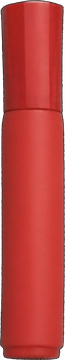
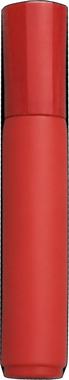
Add files via upload
refactoring stack

diff --git a/stack.html b/stack.html
@@ -6,160 +6,137 @@
 <title>Qu33ph Stack</title>
 <style>
   *{ box-sizing:border-box; -webkit-tap-highlight-color:transparent; }
-  html,body{ margin:0; height:100%; background:#0b0d14; overflow:hidden; font-family:Helvetica,Arial,sans-serif; color:#fff; touch-action:none; user-select:none; }
-  #wrap{ position:fixed; inset:0; display:flex; align-items:center; justify-content:center; }
+  html,body{ margin:0; height:100%; overflow:hidden; font-family:Helvetica,Arial,sans-serif; color:#fff; touch-action:none; user-select:none; }
+  #wrap{ position:fixed; inset:0; display:flex; align-items:center; justify-content:center; background:#0b0d14; }
   #game{ display:block; }
 </style>
+<script src="https://cdnjs.cloudflare.com/ajax/libs/matter-js/0.19.0/matter.min.js"></script>
 </head>
 <body>
 <div id="wrap"><canvas id="game"></canvas></div>
 <script>
 const cv=document.getElementById('game'), ctx=cv.getContext('2d');
-const IMG={}; ['red','green','blue'].forEach(k=>{ const im=new Image(); im.src=k+'.png'; IMG[k]=im; });
+const IMG={}; ['red','green','blue'].forEach(k=>{ const im=new Image(); im.src='stack'+k+'.png'; IMG[k]=im; });
 function ready(im){ return im&&im.complete&&im.naturalWidth>0; }
-const COLORS=['red','green','blue'];
-const HEX={ red:'#ff3b45', green:'#46e05a', blue:'#3a8bff' };
+const COLORS=['red','green','blue'], HEX={red:'#e23b3b',green:'#2fa84f',blue:'#3a63c8'};
 
-let CW=0, CH=0, DPR=1, MW=0, MH=0;
-function resize(){
-  const r=document.getElementById('wrap').getBoundingClientRect();
-  DPR=Math.min(2, window.devicePixelRatio||1);
-  let ar=720/1280, w=r.width, h=w/ar; if(h>r.height){ h=r.height; w=h*ar; }
-  cv.style.width=w+'px'; cv.style.height=h+'px';
-  CW=Math.round(w*DPR); CH=Math.round(h*DPR); cv.width=CW; cv.height=CH;
-  MW=Math.round(CW*0.15); MH=Math.round(MW*1.9);
+// theme background (passed from arcade)
+const THEME=(new URLSearchParams(location.search).get('theme')||'default');
+const BG={ 'default':['#141a2c','#0a0c14'], 'cartoon':['#f2ead6','#d9cdb0'], 'neon':['#1a0a24','#08010f'],
+           'sunset':['#3a1e40','#12060f'], 'galaxy':['#0d0a2a','#05030f'] };
+const TXT={ 'cartoon':'#222', 'default':'#fff','neon':'#fff','sunset':'#fff','galaxy':'#fff' };
+
+let CW=0,CH=0,DPR=1,ML=0,MW=0,PLATE_Y=0,PLATE_W=0;
+function sz(){ const r=document.getElementById('wrap').getBoundingClientRect(); DPR=Math.min(2,window.devicePixelRatio||1);
+  let ar=720/1280,w=r.width,h=w/ar; if(h>r.height){h=r.height;w=h*ar;}
+  cv.style.width=w+'px'; cv.style.height=h+'px'; CW=Math.round(w*DPR); CH=Math.round(h*DPR); cv.width=CW; cv.height=CH;
+  ML=Math.round(CW*0.42); MW=Math.round(CW*0.088); PLATE_W=Math.round(CW*0.36); PLATE_Y=Math.round(CH*0.80);
 }
-window.addEventListener('resize',resize);
+sz();
 
-// ---- physics (verlet chain of joints; markers are the segments between joints) ----
-const GRAV=0.55, DAMP=0.985, ITER=10, BEND=0.55, BASECLAMP=0.9;
-let joints=[], markers=[], active=null, baseX=0, groundY=0;
-let state='title', score=0, best=0, camY=0, toppleT=0, fallH=0;
+let M, engine, world, plate, cur=null, placed=[], camY=0, score=0, best=0, state='loading', overT=0;
 try{ best=parseInt(localStorage.getItem('qu33phStackBest')||'0',10)||0; }catch(e){}
 
-function reset(){
-  baseX=CW/2; groundY=CH*0.86;
-  joints=[{x:baseX,y:groundY,ox:baseX,oy:groundY}];
-  joints.push({x:baseX,y:groundY-MH,ox:baseX,oy:groundY-MH});   // first marker (red) on the plate
-  markers=[{color:'red'}];
-  score=0; camY=0; toppleT=0; state='play';
-  newActive();
+function boot(){
+  M=window.Matter; if(!M){ setTimeout(boot,60); return; }
+  engine=M.Engine.create(); world=engine.world; engine.gravity.y=1.1;
+  state='title';
 }
-function colorFor(i){ return COLORS[i%3]; }
-function newActive(){
-  const lvl=markers.length, top=joints[joints.length-1];
-  active={ x:(Math.random()<0.5?MW:CW-MW), y:top.y-MH, dir:(Math.random()<0.5?1:-1), spd:Math.min(CW*0.02, CW*0.008+lvl*CW*0.0004), color:colorFor(lvl) };
-}
-function drop(){
-  if(state==='title'){ reset(); return; }
-  if(state==='over'){ state='title'; return; }
-  if(state!=='play') return;
-  const top=joints[joints.length-1];
-  // add a new joint above the current top, offset by where you dropped
-  joints.push({x:active.x, y:top.y-MH, ox:active.x, oy:top.y-MH});
-  markers.push({color:active.color});
-  score++;
-  if(score>best){ best=score; try{ localStorage.setItem('qu33phStackBest',best);}catch(e){} }
-  newActive();
-}
-cv.addEventListener('pointerdown', drop);
+boot();
 
-function physics(){
-  // integrate free joints (index >=1)
-  for(let i=1;i<joints.length;i++){ const j=joints[i];
-    let vx=(j.x-j.ox)*DAMP, vy=(j.y-j.oy)*DAMP;
-    j.ox=j.x; j.oy=j.y; j.x+=vx; j.y+=vy+GRAV;
-  }
-  const stiff = (state==='play') ? 1 : 0.15;   // when toppling, go limp so it falls over
-  for(let k=0;k<ITER;k++){
-    joints[0].x=baseX; joints[0].y=groundY;                       // pin plate
-    // distance constraints (rigid marker length)
-    for(let i=1;i<joints.length;i++){ const a=joints[i-1], b=joints[i];
-      let dx=b.x-a.x, dy=b.y-a.y, d=Math.hypot(dx,dy)||1, diff=(d-MH)/d;
-      if(i-1===0){ b.x-=dx*diff; b.y-=dy*diff; }
-      else { a.x+=dx*diff*0.5; a.y+=dy*diff*0.5; b.x-=dx*diff*0.5; b.y-=dy*diff*0.5; }
-    }
-    // bending stiffness: each segment continues straight from the previous (keeps it a rigid-ish column)
-    for(let i=1;i<joints.length-1;i++){ const a=joints[i-1], b=joints[i], c=joints[i+1];
-      let px=b.x+(b.x-a.x), py=b.y+(b.y-a.y);
-      c.x+=(px-c.x)*BEND*stiff; c.y+=(py-c.y)*BEND*stiff;
-    }
-    // base clamp: first marker stays roughly upright on the plate
-    if(joints.length>1){ joints[1].x+=(baseX-joints[1].x)*BASECLAMP*stiff; }
-  }
+function startGame(){
+  M.Composite.clear(world,false);
+  plate=M.Bodies.rectangle(CW/2, PLATE_Y+MW*0.4, PLATE_W, MW*0.8, { isStatic:true, friction:1, label:'plate' });
+  M.Composite.add(world, plate);
+  placed=[]; score=0; camY=0; state='play'; overT=0;
+  spawn();
 }
+function spawn(){
+  const color=COLORS[placed.length%3];
+  const topY = placed.length? Math.min(...placed.map(b=>b.position.y)) : PLATE_Y;
+  const y = topY - ML*1.4;
+  const b=M.Bodies.rectangle(CW/2, y, MW, ML, { chamfer:{radius:MW*0.45}, friction:0.7, frictionStatic:1, restitution:0.02, density:0.004, label:'marker' });
+  b.color=color; b.held=true; b.dropped=false; b.settle=0;
+  M.Body.setStatic(b,true);
+  M.Composite.add(world,b); cur=b;
+}
+
+// ---- input: drag the current marker, release to drop ----
+function pt(e){ const r=cv.getBoundingClientRect(); return { x:(e.clientX-r.left)/r.width*CW, y:(e.clientY-r.top)/r.height*CH - camY }; }
+cv.addEventListener('pointerdown',e=>{
+  if(state==='title'){ startGame(); return; }
+  if(state==='over'){ if(overT<=0){ state='title'; } return; }
+  if(state==='play' && cur && !cur.dropped){ cur.held=true; const p=pt(e); M.Body.setPosition(cur,{x:p.x,y:p.y}); M.Body.setAngle(cur,0); }
+});
+cv.addEventListener('pointermove',e=>{ if(state==='play'&&cur&&cur.held){ const p=pt(e); M.Body.setPosition(cur,{x:Math.max(MW,Math.min(CW-MW,p.x)),y:p.y}); M.Body.setAngle(cur,0); M.Body.setVelocity(cur,{x:0,y:0}); M.Body.setAngularVelocity(cur,0); } });
+function release(){ if(state==='play'&&cur&&cur.held&&!cur.dropped){ cur.held=false; cur.dropped=true; M.Body.setStatic(cur,false); M.Body.setVelocity(cur,{x:0,y:0}); } }
+window.addEventListener('pointerup',release); window.addEventListener('pointercancel',release);
 
 function update(){
-  if(state==='title') return;
-  if(state==='play'){
-    active.x+=active.dir*active.spd;
-    if(active.x<MW){ active.x=MW; active.dir=1; }
-    if(active.x>CW-MW){ active.x=CW-MW; active.dir=-1; }
-    active.y=joints[joints.length-1].y-MH;
+  if(state!=='play' && state!=='over'){ return; }
+  if(state==='play' || (state==='over')) M.Engine.update(engine, 1000/60);
+  if(state==='play' && cur && cur.dropped){
+    if(cur.position.y > PLATE_Y+ML*0.8){ gameOver(); }        // fell past/off the plate
+    else {
+      const sp=Math.hypot(cur.velocity.x,cur.velocity.y)+Math.abs(cur.angularVelocity)*30;
+      if(sp<0.4) cur.settle++; else cur.settle=0;
+      if(cur.settle>16){ placed.push(cur); score=placed.length; if(score>best){best=score; try{localStorage.setItem('qu33phStackBest',best);}catch(e){}} cur=null; spawn(); }
+    }
   }
-  if(state==='play'||state==='over') physics();
-  // camera follows the top of the tower
-  const topY=joints[joints.length-1].y;
-  const targetCam = Math.max(0, (CH*0.42) - topY);
-  camY += (targetCam-camY)*0.12;
-  // topple check: top joint drifted too far sideways from the plate
-  if(state==='play' && joints.length>3){
-    const drift=Math.abs(joints[joints.length-1].x - baseX);
-    if(drift > MW*2.6){ state='over'; toppleT=90; fallH=score; }
-  }
-  if(state==='over' && toppleT>0){ toppleT--; }
+  // any previously-placed marker fell off -> topple
+  if(state==='play'){ for(const b of placed){ if(b.position.y > PLATE_Y+ML*1.1 || b.position.x<-ML || b.position.x>CW+ML){ gameOver(); break; } } }
+  // camera follows tower top
+  let topY = PLATE_Y; if(placed.length) topY=Math.min(topY, ...placed.map(b=>b.position.y)); if(cur) topY=Math.min(topY,cur.position.y);
+  const target = CH*0.42 - topY; camY += (target-camY)*0.1;
+  if(state==='over' && overT>0) overT--;
 }
+function gameOver(){ if(state==='over')return; state='over'; overT=80; }
 
-function drawMarkerSeg(a,b,color){
-  const cx=(a.x+b.x)/2, cy=(a.y+b.y)/2, ang=Math.atan2(b.y-a.y,b.x-a.x)+Math.PI/2;
-  const len=Math.hypot(b.x-a.x,b.y-a.y);
-  ctx.save(); ctx.translate(cx,cy+camY); ctx.rotate(ang);
-  const im=IMG[color];
-  if(ready(im)) ctx.drawImage(im,-MW/2,-len/2,MW,len);
-  else { ctx.fillStyle=HEX[color]; rr(-MW/2,-len/2,MW,len,MW/2); ctx.fill(); ctx.strokeStyle='rgba(0,0,0,0.25)'; ctx.lineWidth=2; ctx.stroke(); }
+function drawBody(b){
+  const im=IMG[b.color];
+  ctx.save(); ctx.translate(b.position.x, b.position.y+camY); ctx.rotate(b.angle);
+  if(ready(im)){ const w=ML*(im.naturalWidth/im.naturalHeight); ctx.drawImage(im,-w/2,-ML/2,w,ML); }
+  else { ctx.fillStyle=HEX[b.color]; rr(-MW/2,-ML/2,MW,ML,MW/2); ctx.fill(); }
   ctx.restore();
 }
 function rr(x,y,w,h,r){ r=Math.min(r,w/2,h/2); ctx.beginPath(); ctx.moveTo(x+r,y); ctx.arcTo(x+w,y,x+w,y+h,r); ctx.arcTo(x+w,y+h,x,y+h,r); ctx.arcTo(x,y+h,x,y,r); ctx.arcTo(x,y,x+w,y,r); ctx.closePath(); }
 
 function draw(){
   ctx.setTransform(1,0,0,1,0,0);
-  const g=ctx.createLinearGradient(0,0,0,CH); g.addColorStop(0,'#141a2c'); g.addColorStop(1,'#0a0c14'); ctx.fillStyle=g; ctx.fillRect(0,0,CW,CH);
-  if(state==='title'){ drawTitle(); return; }
-
+  const bg=BG[THEME]||BG.default, g=ctx.createLinearGradient(0,0,0,CH); g.addColorStop(0,bg[0]); g.addColorStop(1,bg[1]); ctx.fillStyle=g; ctx.fillRect(0,0,CW,CH);
+  const txt=TXT[THEME]||'#fff';
+  if(state==='title'){ drawTitle(txt); return; }
+  if(state==='loading'){ ctx.fillStyle=txt; ctx.textAlign='center'; ctx.font='bold '+Math.round(CW*0.05)+'px Helvetica'; ctx.fillText('loading…',CW/2,CH/2); return; }
   // plate
-  ctx.fillStyle='#cfd6e0'; ctx.beginPath(); ctx.ellipse(baseX, groundY+camY+MH*0.05, MW*1.1, MW*0.28, 0, 0, 7); ctx.fill();
-  // tower markers
-  for(let i=0;i<markers.length;i++){ drawMarkerSeg(joints[i], joints[i+1], markers[i].color); }
-  // active marker + drop guide
-  if(state==='play'){
-    ctx.strokeStyle='rgba(255,255,255,0.25)'; ctx.setLineDash([6,8]); ctx.lineWidth=2;
-    ctx.beginPath(); ctx.moveTo(active.x, 0); ctx.lineTo(active.x, CH); ctx.stroke(); ctx.setLineDash([]);
-    const a={x:active.x,y:active.y}, b={x:active.x,y:active.y+MH}; drawMarkerSeg(b,a,active.color);
-  }
+  ctx.fillStyle='#cfd6e0'; ctx.beginPath(); ctx.ellipse(plate.position.x, plate.position.y+camY, PLATE_W/2, MW*0.5, 0,0,7); ctx.fill();
+  // markers
+  for(const b of placed) drawBody(b);
+  if(cur) drawBody(cur);
+  // drop guide when holding
+  if(cur&&cur.held){ ctx.strokeStyle='rgba(255,255,255,0.25)'; ctx.setLineDash([6,8]); ctx.lineWidth=2; ctx.beginPath(); ctx.moveTo(cur.position.x,0); ctx.lineTo(cur.position.x,CH); ctx.stroke(); ctx.setLineDash([]); }
   // HUD
-  ctx.textAlign='center'; ctx.fillStyle='#fff'; ctx.font='bold '+Math.round(CW*0.12)+'px Helvetica';
-  ctx.shadowColor='rgba(0,0,0,0.6)'; ctx.shadowBlur=8; ctx.fillText(score, CW/2, CH*0.12); ctx.shadowBlur=0;
-  ctx.fillStyle='#8fa'; ctx.font='bold '+Math.round(CW*0.035)+'px Helvetica'; ctx.fillText('BEST '+best, CW/2, CH*0.16);
-
-  if(state==='over' && toppleT<=0){
+  ctx.textAlign='center'; ctx.fillStyle=txt; ctx.font='bold '+Math.round(CW*0.12)+'px Helvetica'; ctx.shadowColor='rgba(0,0,0,0.5)'; ctx.shadowBlur=8; ctx.fillText(score,CW/2,CH*0.12); ctx.shadowBlur=0;
+  ctx.fillStyle='#7fddaa'; ctx.font='bold '+Math.round(CW*0.035)+'px Helvetica'; ctx.fillText('BEST '+best,CW/2,CH*0.16);
+  if(cur&&!cur.dropped){ ctx.fillStyle=txt; ctx.globalAlpha=0.6; ctx.font='bold '+Math.round(CW*0.033)+'px Helvetica'; ctx.fillText('drag the marker · release to drop',CW/2,CH*0.94); ctx.globalAlpha=1; }
+  if(state==='over'&&overT<=0){
     ctx.fillStyle='rgba(0,0,0,0.6)'; ctx.fillRect(0,0,CW,CH);
-    ctx.fillStyle='#ffd54a'; ctx.font='bold '+Math.round(CW*0.1)+'px Helvetica'; ctx.fillText('TIMBER!', CW/2, CH*0.4);
-    ctx.fillStyle='#fff'; ctx.font='bold '+Math.round(CW*0.16)+'px Helvetica'; ctx.fillText(fallH, CW/2, CH*0.53);
-    ctx.fillStyle='#8fa'; ctx.font='bold '+Math.round(CW*0.045)+'px Helvetica'; ctx.fillText('markers high · BEST '+best, CW/2, CH*0.59);
-    ctx.fillStyle='#fff'; ctx.font='bold '+Math.round(CW*0.045)+'px Helvetica'; ctx.fillText('tap to play again', CW/2, CH*0.68);
+    ctx.fillStyle='#ffd54a'; ctx.font='bold '+Math.round(CW*0.1)+'px Helvetica'; ctx.fillText('TIMBER!',CW/2,CH*0.4);
+    ctx.fillStyle='#fff'; ctx.font='bold '+Math.round(CW*0.16)+'px Helvetica'; ctx.fillText(score,CW/2,CH*0.53);
+    ctx.fillStyle='#7fddaa'; ctx.font='bold '+Math.round(CW*0.045)+'px Helvetica'; ctx.fillText('markers high · BEST '+best,CW/2,CH*0.59);
+    ctx.fillStyle='#fff'; ctx.font='bold '+Math.round(CW*0.045)+'px Helvetica'; ctx.fillText('tap to play again',CW/2,CH*0.68);
   }
 }
-function drawTitle(){
-  const cx=CW/2, base=CH*0.66, w=MW, h=MH;
-  ['red','green','blue'].forEach((c,i)=>{ const y=base - i*h*0.98; const a={x:cx,y:y}, b={x:cx,y:y-h}; drawMarkerSeg(b,a,c); });
-  ctx.textAlign='center'; ctx.fillStyle='#ffd54a'; ctx.font='bold '+Math.round(CW*0.11)+'px Helvetica';
-  ctx.fillText('QU33PH', CW/2, CH*0.2); ctx.fillText('STACK', CW/2, CH*0.2+Math.round(CW*0.12));
-  ctx.fillStyle='#fff'; ctx.font='bold '+Math.round(CW*0.042)+'px Helvetica'; ctx.fillText('tap to drop · keep it balanced', CW/2, CH*0.8);
-  ctx.fillStyle='#8fa'; ctx.font='bold '+Math.round(CW*0.04)+'px Helvetica'; ctx.fillText('BEST '+best, CW/2, CH*0.85);
-  ctx.fillStyle='#fff'; ctx.font='bold '+Math.round(CW*0.05)+'px Helvetica'; ctx.fillText('▶ TAP TO START', CW/2, CH*0.91);
+function drawTitle(txt){
+  const cx=CW/2, base=CH*0.66;
+  ['red','green','blue'].forEach((c,i)=>{ const im=IMG[c]; const y=base-i*ML*0.9; ctx.save(); ctx.translate(cx,y); if(ready(im)){ const w=ML*(im.naturalWidth/im.naturalHeight); ctx.drawImage(im,-w/2,-ML/2,w,ML);} ctx.restore(); });
+  ctx.textAlign='center'; ctx.fillStyle='#ffd54a'; ctx.font='bold '+Math.round(CW*0.11)+'px Helvetica'; ctx.fillText('QU33PH',CW/2,CH*0.2); ctx.fillText('STACK',CW/2,CH*0.2+Math.round(CW*0.12));
+  ctx.fillStyle=txt; ctx.font='bold '+Math.round(CW*0.04)+'px Helvetica'; ctx.fillText('drag & drop · build the tower',CW/2,CH*0.8);
+  ctx.fillStyle='#7fddaa'; ctx.font='bold '+Math.round(CW*0.04)+'px Helvetica'; ctx.fillText('BEST '+best,CW/2,CH*0.85);
+  ctx.fillStyle=txt; ctx.font='bold '+Math.round(CW*0.05)+'px Helvetica'; ctx.fillText('▶ TAP TO START',CW/2,CH*0.91);
 }
 function loop(){ update(); draw(); requestAnimationFrame(loop); }
-resize(); loop();
+window.addEventListener('resize',()=>{ sz(); });
+loop();
 </script>
 </body>
 </html>

diff --git a/index.html b/index.html
@@ -217,6 +217,12 @@
     #arcadeMenu.arc-neon #cabGolf img { filter:drop-shadow(0 0 4px #28ff82) drop-shadow(0 0 10px #28ff82) drop-shadow(0 0 18px rgba(40,255,130,0.65)); }
     #cabFidget img { width:100%; aspect-ratio:150/230; max-height:168px; object-fit:cover; border-radius:14px; border:3px solid #141414; box-sizing:border-box; }
     #cabStack img { width:100%; aspect-ratio:150/230; max-height:168px; object-fit:cover; border-radius:14px; border:3px solid #141414; box-sizing:border-box; }
+    #arcadeMenu.arc-comic #cabStack img, #arcadeMenu.arc-neon #cabStack img, #arcadeMenu.arc-sunset #cabStack img, #arcadeMenu.arc-galaxy #cabStack img { filter:drop-shadow(0 4px 12px rgba(0,0,0,0.55)); }
+    #arcadeMenu.arc-comic #cabStack img { border-color:#000; }
+    #arcadeMenu.arc-neon #cabStack img { border-color:#ff3bd0; box-shadow:0 0 9px #ff3bd0, 0 0 18px rgba(255,59,208,0.5); }
+    #arcadeMenu.arc-sunset #cabStack img { border-color:#ffb020; box-shadow:0 0 9px rgba(255,176,32,0.75); }
+    #arcadeMenu.arc-galaxy #cabStack img { border-color:#9a6bff; box-shadow:0 0 9px rgba(154,107,255,0.85); }
+    #arcadeMenu.arc-comic #cabStack::after, #arcadeMenu.arc-galaxy #cabStack::after { display:none; }
     #arcadeMenu.arc-comic #cabFidget img, #arcadeMenu.arc-neon #cabFidget img, #arcadeMenu.arc-sunset #cabFidget img, #arcadeMenu.arc-galaxy #cabFidget img { filter:drop-shadow(0 4px 12px rgba(0,0,0,0.55)); }
     #arcadeMenu.arc-comic #cabFidget img { border-color:#000; }
     #arcadeMenu.arc-neon #cabFidget img { border-color:#ff3bd0; box-shadow:0 0 9px #ff3bd0, 0 0 18px rgba(255,59,208,0.5); }
@@ -473,7 +479,7 @@
   </style>
 </head>
 <body>
-<div id="verBadge" style="position:fixed;bottom:6px;right:8px;font-family:Helvetica,Arial,sans-serif;font-size:10px;color:#444;z-index:99999;letter-spacing:1px;pointer-events:none;">v284</div>
+<div id="verBadge" style="position:fixed;bottom:6px;right:8px;font-family:Helvetica,Arial,sans-serif;font-size:10px;color:#444;z-index:99999;letter-spacing:1px;pointer-events:none;">v285</div>
 
 <canvas id="game"></canvas>
 
@@ -4124,7 +4130,7 @@ function launchGolf(){ try{pfMusicStop();}catch(e){} document.getElementById("ar
 function golfBack(){ var f=document.getElementById("golfFrame"); try{ f.setAttribute("src","about:blank"); }catch(e){} document.getElementById("golfScreen").style.display="none"; showArcadeMenu(); }
 function launchFidget(){ try{pfMusicStop();}catch(e){} document.getElementById("arcadeMenu").style.display="none"; var s=document.getElementById("fidgetScreen"); s.style.display="block"; var f=document.getElementById("fidgetFrame"); var _t=(typeof styleOf==="function"?styleOf():currentTheme); f.setAttribute("src","fidget.html?theme="+encodeURIComponent(_t)); arcadeGame="fidget"; try{ haptic(10); }catch(e){} }
 function fidgetBack(){ var f=document.getElementById("fidgetFrame"); try{ f.setAttribute("src","about:blank"); }catch(e){} document.getElementById("fidgetScreen").style.display="none"; showArcadeMenu(); }
-function launchStack(){ try{pfMusicStop();}catch(e){} document.getElementById("arcadeMenu").style.display="none"; var sc=document.getElementById("stackScreen"); sc.style.display="block"; var f=document.getElementById("stackFrame"); f.setAttribute("src","stack.html"); arcadeGame="stack"; try{ haptic(10); }catch(e){} }
+function launchStack(){ try{pfMusicStop();}catch(e){} document.getElementById("arcadeMenu").style.display="none"; var sc=document.getElementById("stackScreen"); sc.style.display="block"; var f=document.getElementById("stackFrame"); var _t=(typeof styleOf==="function"?styleOf():currentTheme); f.setAttribute("src","stack.html?theme="+encodeURIComponent(_t)); arcadeGame="stack"; try{ haptic(10); }catch(e){} }
 function stackBack(){ var f=document.getElementById("stackFrame"); try{ f.setAttribute("src","about:blank"); }catch(e){} document.getElementById("stackScreen").style.display="none"; showArcadeMenu(); }
 function showJumpMenu(){ jmSettings=false; pfMusicStop(); showPlatformer("jumpmenu"); }
 function jmNav(dir){ if(jmSettings) return; jmSel=(jmSel+dir+PF_MODES.length)%PF_MODES.length; try{haptic(6);}catch(e){} }